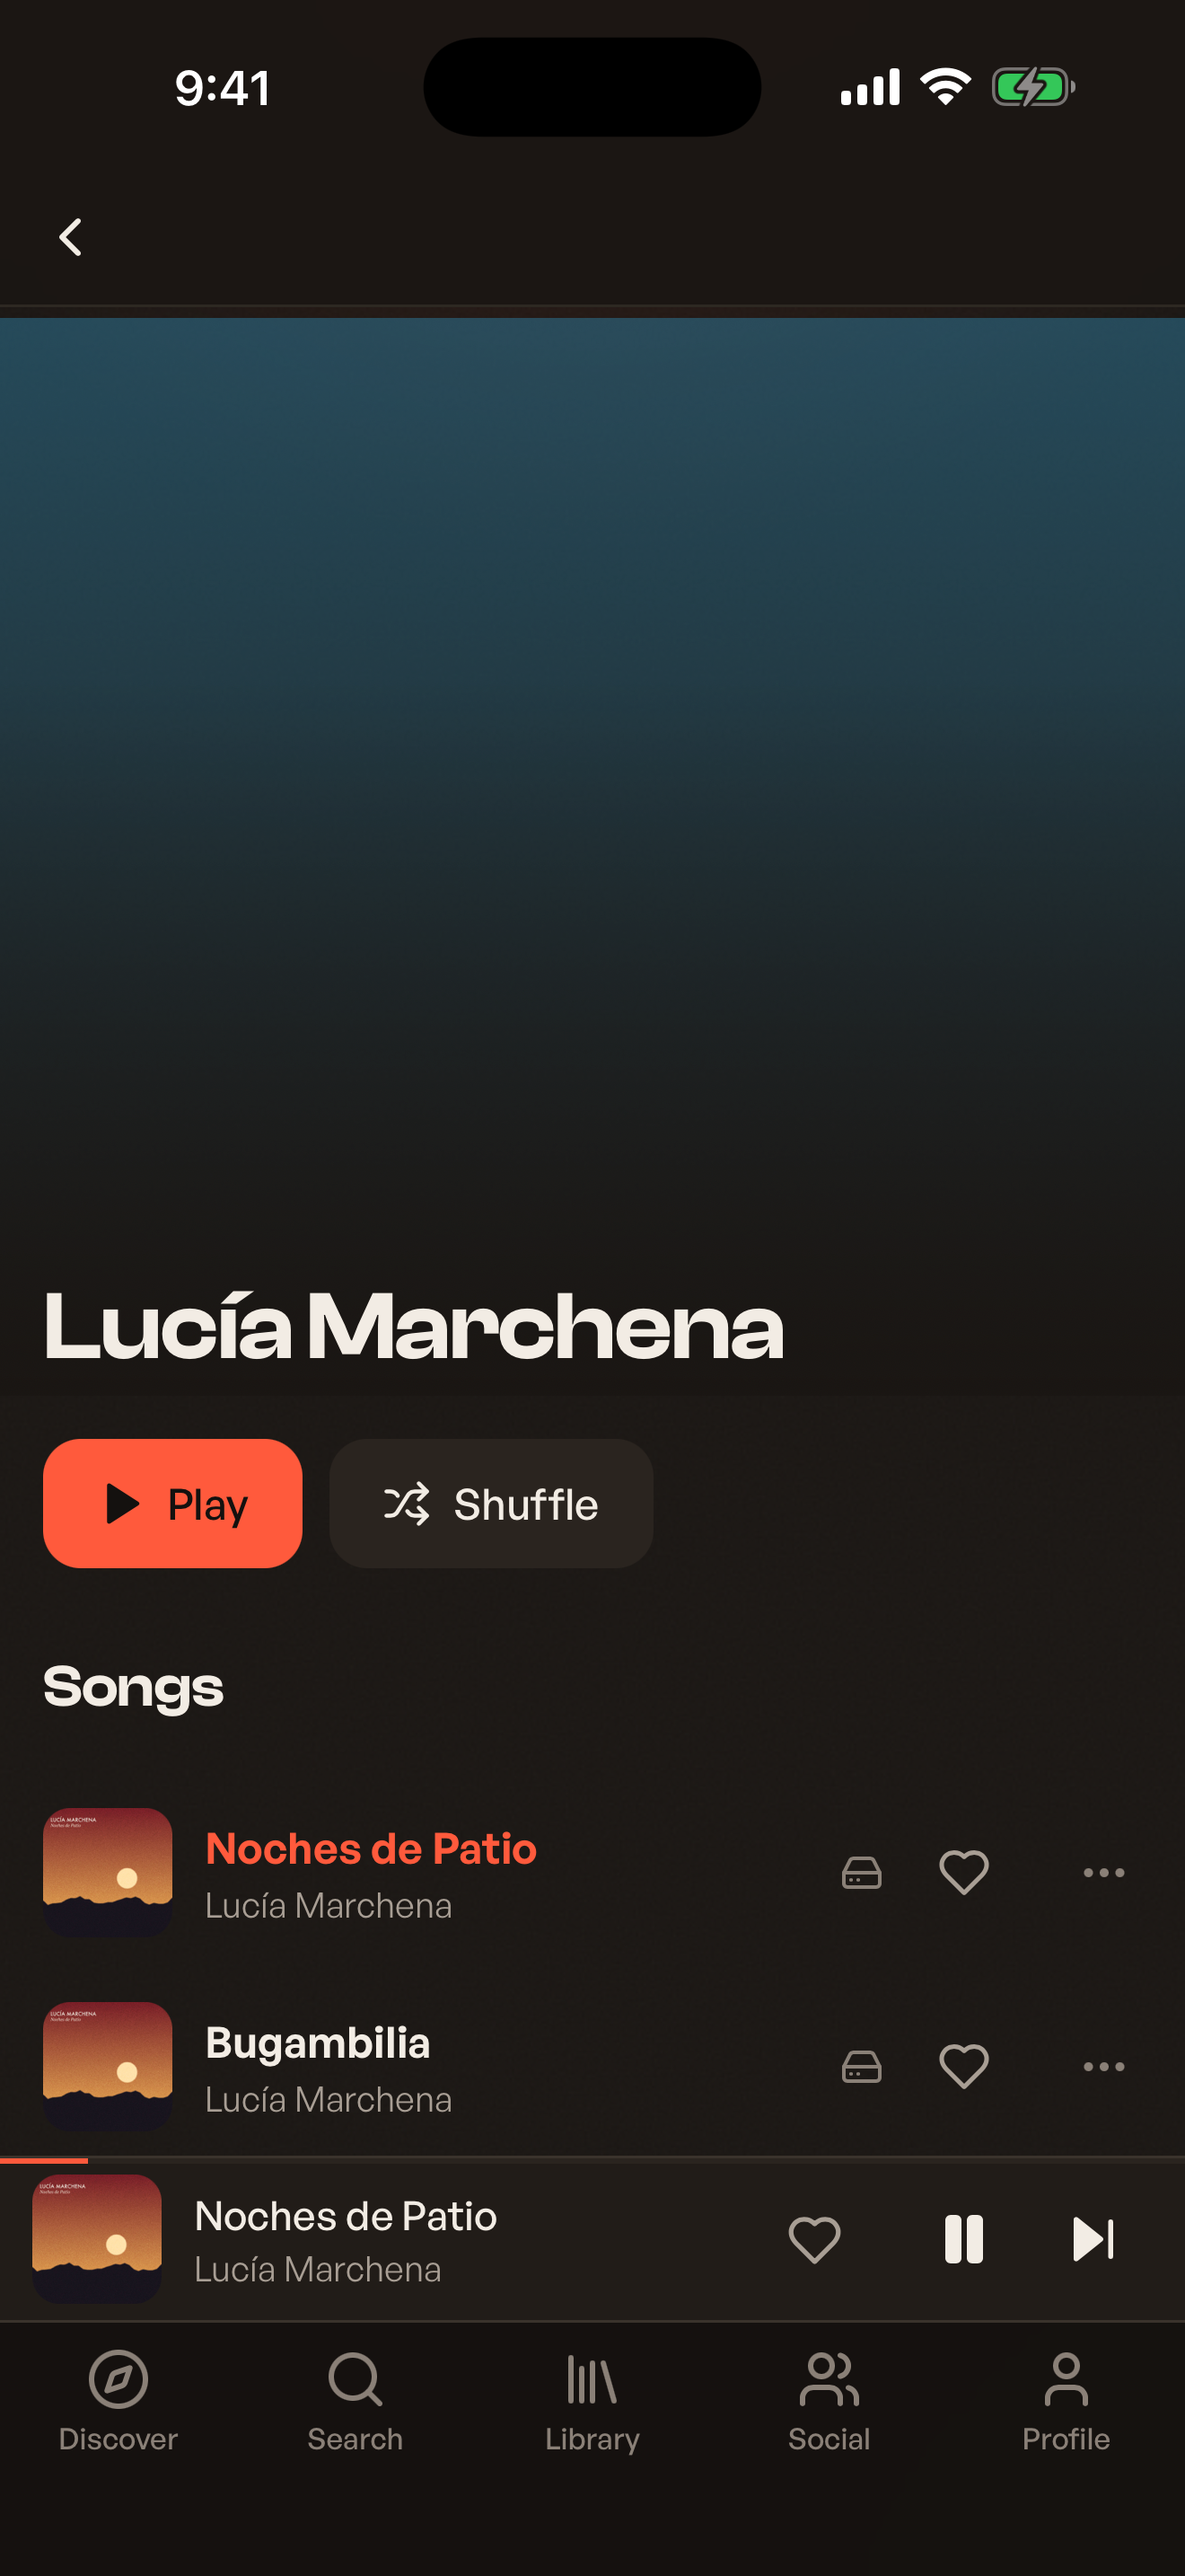
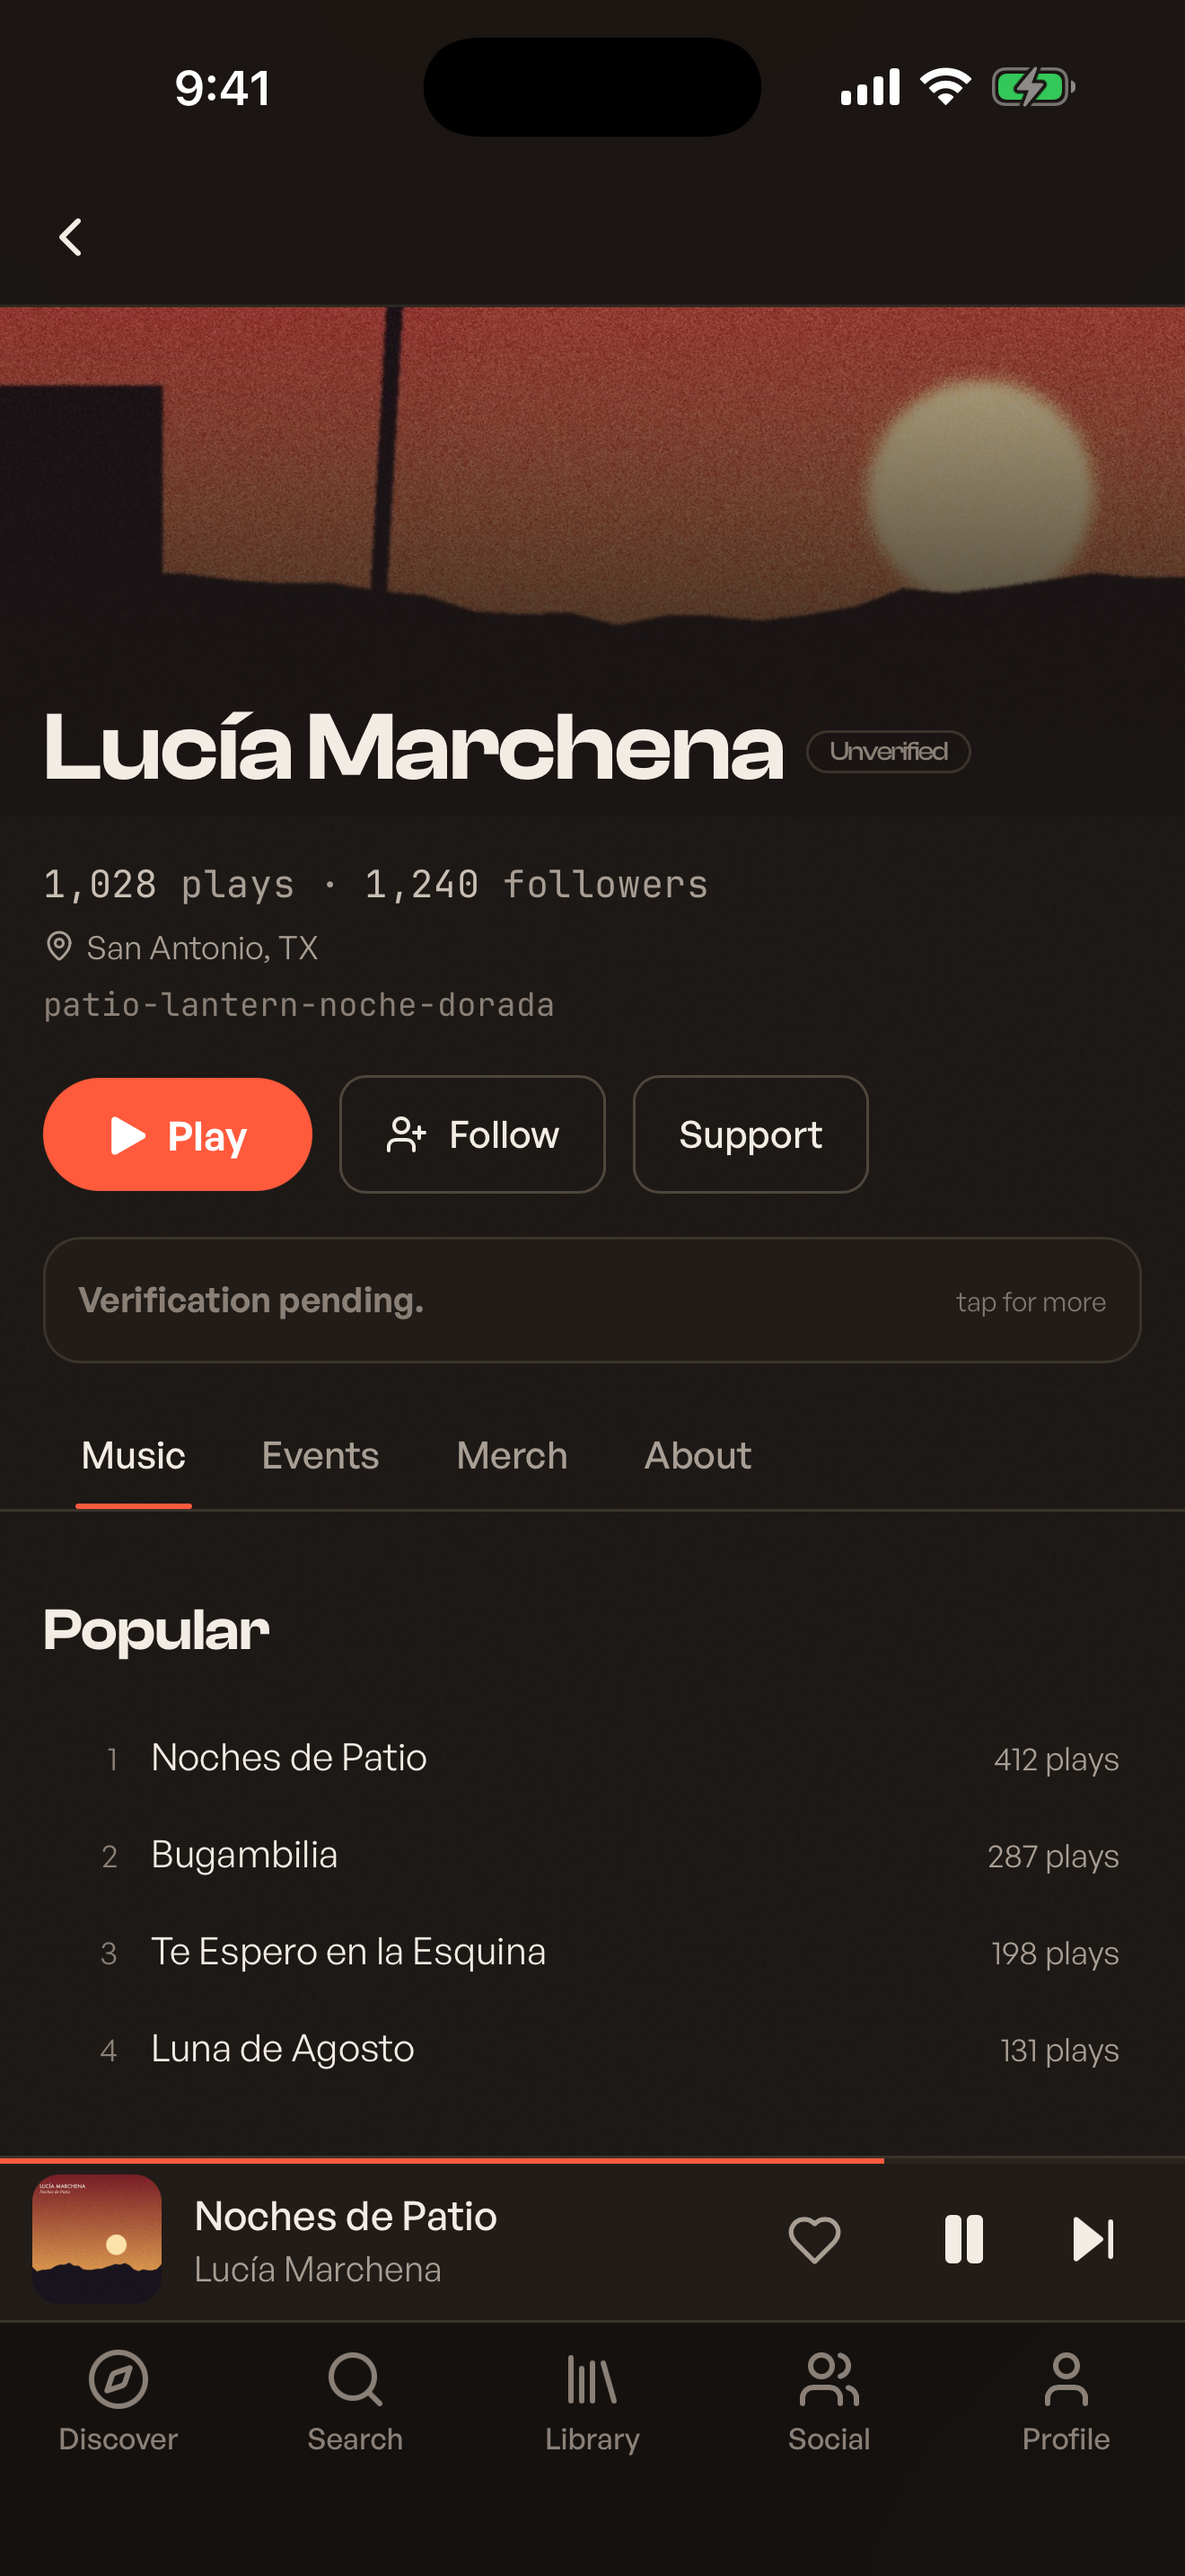
JP artist page screenshot

diff --git a/jp/index.html b/jp/index.html
@@ -33,7 +33,7 @@
 <div id="moments" class="visually-hidden"></div>
 <section class="moment"><div class="wrap moment__inner"><div class="moment__copy"><span class="eyebrow">J1</span><h3 class="moment__title">Radio from any artist</h3><p class="moment__sentence">Start a station from an artist you love and it keeps going.</p></div><div class="moment__media"><figure class="slot slot--phone" data-moment="J1"><picture><source type="image/webp" srcset="../captures/J1-iphone-dark.webp"><img src="../captures/J1-iphone-dark.png" alt="Jams Player on iPhone: an artist radio station playing." loading="lazy"></picture></figure></div></div></section>
 <section class="moment moment--flip"><div class="wrap moment__inner"><div class="moment__media"><figure class="slot slot--phone" data-moment="J2"><picture><source type="image/webp" srcset="../captures/J2-iphone-dark.webp"><img src="../captures/J2-iphone-dark.png" alt="Jams Player on iPhone: an album page with its tracks." loading="lazy"></picture></figure></div><div class="moment__copy"><span class="eyebrow">J2</span><h3 class="moment__title">Albums, start to finish</h3><p class="moment__sentence">Open an album and play it through, or shuffle.</p></div></div></section>
-<section class="moment"><div class="wrap moment__inner"><div class="moment__copy"><span class="eyebrow">J3</span><h3 class="moment__title">Every artist, one tap away</h3><p class="moment__sentence">Artist pages put their songs up front.</p></div><div class="moment__media"><figure class="slot slot--phone" data-moment="J3"><picture><source type="image/webp" srcset="../captures/J3-iphone-dark.webp"><img src="../captures/J3-iphone-dark.png" alt="Jams Player on iPhone: an artist page with their songs." loading="lazy"></picture></figure></div></div></section>
+<section class="moment"><div class="wrap moment__inner"><div class="moment__copy"><span class="eyebrow">J3</span><h3 class="moment__title">Every artist, one tap away</h3><p class="moment__sentence">Every artist gets a real page: their most-played songs, releases, shows and merch.</p></div><div class="moment__media"><figure class="slot slot--phone" data-moment="J3"><picture><source type="image/webp" srcset="../captures/J3-iphone-dark.webp"><img src="../captures/J3-iphone-dark.png" alt="Jams Player on iPhone: an artist page with a banner, popular songs, and tabs for events and merch." loading="lazy"></picture></figure></div></div></section>
 <section class="moment moment--flip"><div class="wrap moment__inner"><div class="moment__media"><figure class="slot slot--phone" data-moment="J4"><picture><source type="image/webp" srcset="../captures/J4-iphone-dark.webp"><img src="../captures/J4-iphone-dark.png" alt="Jams Player on iPhone: the Library with albums." loading="lazy"></picture></figure></div><div class="moment__copy"><span class="eyebrow">J4</span><h3 class="moment__title">Your library, kept</h3><p class="moment__sentence">Your albums, artists and songs in one place. Reinstall, restore from your recovery kit, nothing is gone.</p></div></div></section>
 <section class="moment"><div class="wrap moment__inner"><div class="moment__copy"><span class="eyebrow">J5</span><h3 class="moment__title">Stations and podcasts</h3><p class="moment__sentence">Radio from your own library; podcasts alongside your music.</p></div><div class="moment__media"><figure class="slot slot--desktop" data-moment="J5" data-alt="Radio from your own library; podcasts alongside your music."><span class="slot__id">J5</span><figcaption class="slot__note">Desktop · Stations or Podcasts · dark theme</figcaption><span class="slot__flag">real capture from the running app, or this slot stays empty</span></figure></div></div></section>
 <section id="device" class="strip"><div class="wrap"><h2 class="section__title">What is true here</h2><div class="strip__grid"><div class="strip__card"><span class="strip__card-title">On your device</span><span class="strip__card-text">No servers. Your library and your keys stay with you.</span></div><div class="strip__card"><span class="strip__card-title">Never holds the money</span><span class="strip__card-text">Artist-direct micropayments; the platform never takes custody.</span></div><div class="strip__card"><span class="strip__card-title">Independent artists</span><span class="strip__card-text">Every artist in the Jams catalog is verified and paid directly.</span></div></div></div></section>
